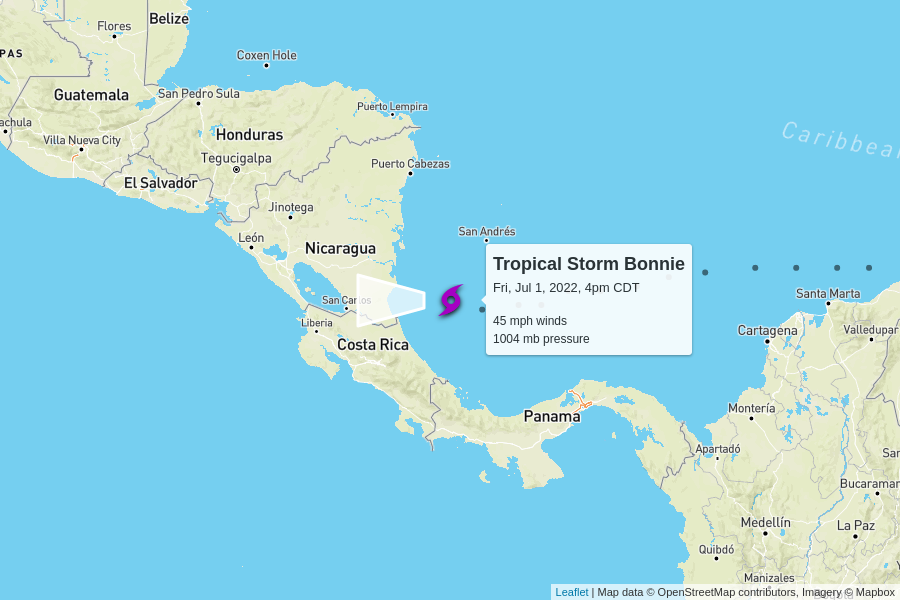
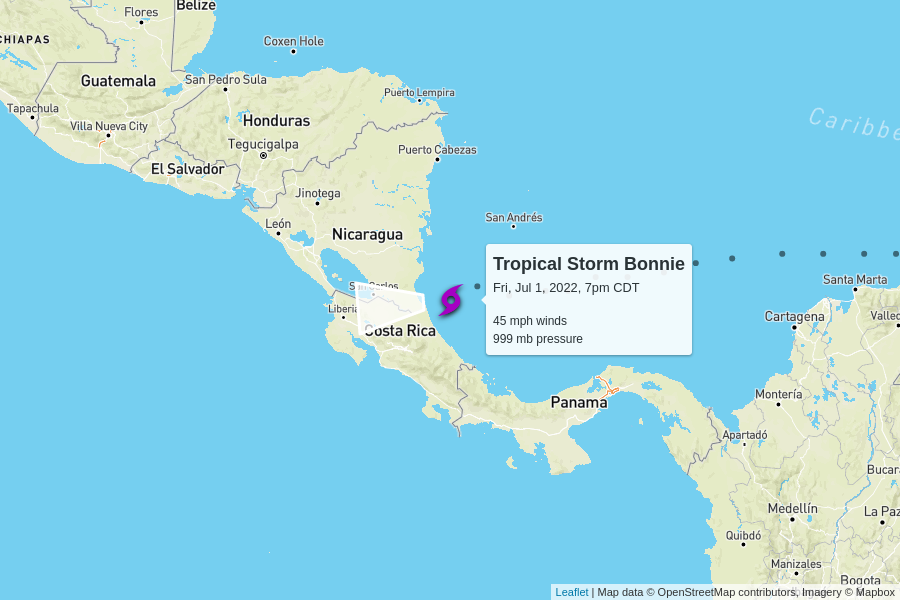
automatic update

diff --git a/docs/index.html b/docs/index.html
@@ -100,7 +100,7 @@
         <td colspan="6" class="storm category-0" >
           <h2>
             Tropical Storm Bonnie
-            <p class="updated">last updated <span data-time>2022-07-01T21:00:00.000Z</span></p>
+            <p class="updated">last updated <span data-time>2022-07-02T00:00:00.000Z</span></p>
           </h2>
         </td>
       </tr>
@@ -116,11 +116,11 @@
       <tr>
         <td class="spacer"></td>
         <td>45 mph</td>
-        <td>1004 mb</td>
+        <td>999 mb</td>
         <td>
           17 mph to the west
           <br/>
-          <span style="display: inline-block; font-size: 1.5em; transform: rotate(270deg);">↑</span>
+          <span style="display: inline-block; font-size: 1.5em; transform: rotate(265deg);">↑</span>
         </td>
         <td><a href="https://raw.githubusercontent.com/mgwalker/atlantic-hurricanes/main/data/csv/AL022022.csv">AL022022.csv</a></td>
         <td><a href="https://www.nhc.noaa.gov/archive/2022/BONNIE.shtml?">NHC advisories</a></td>
